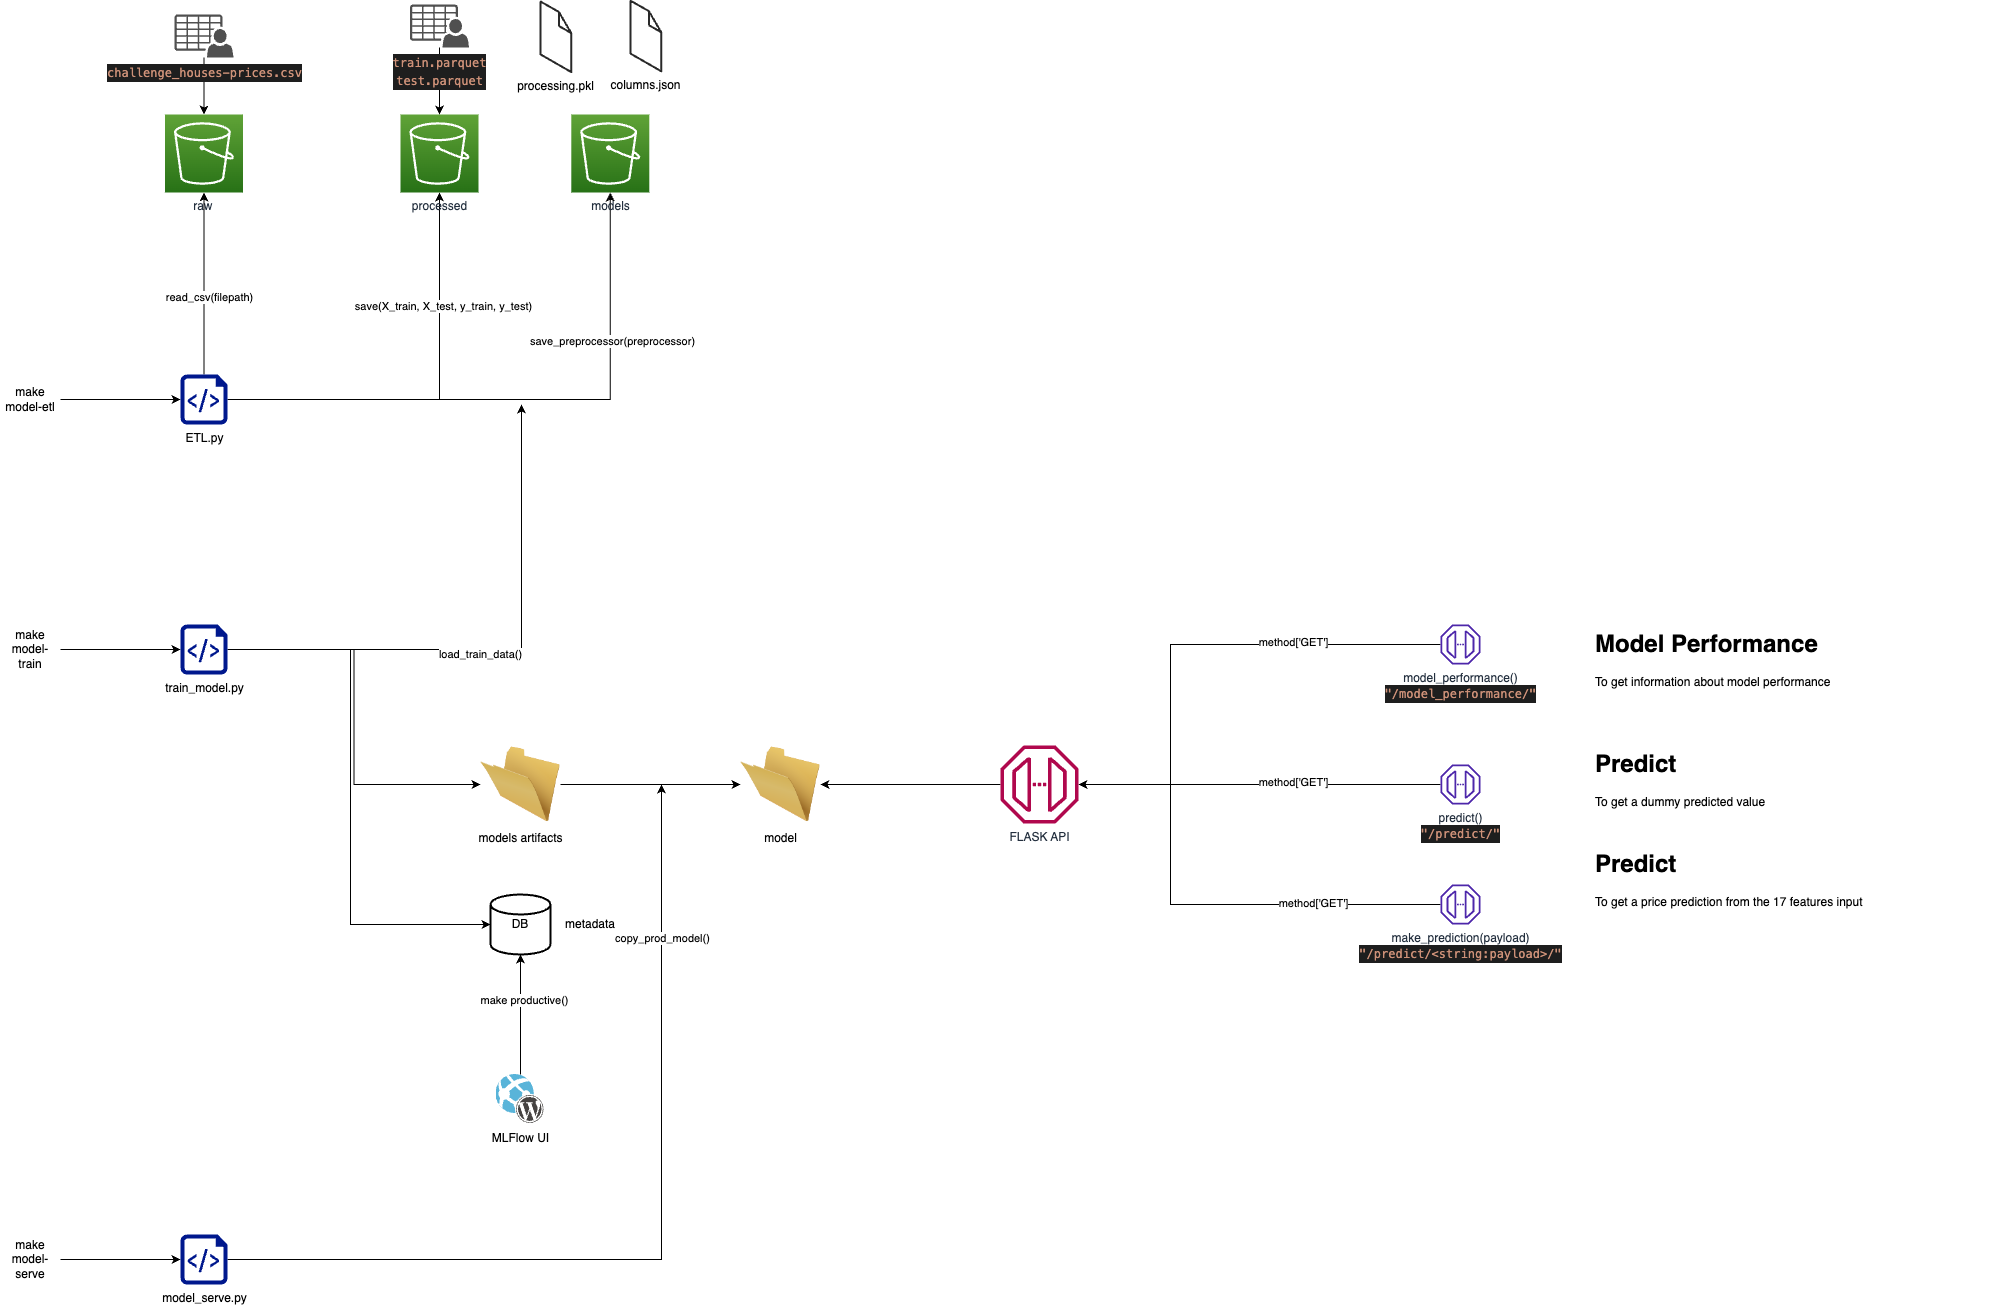
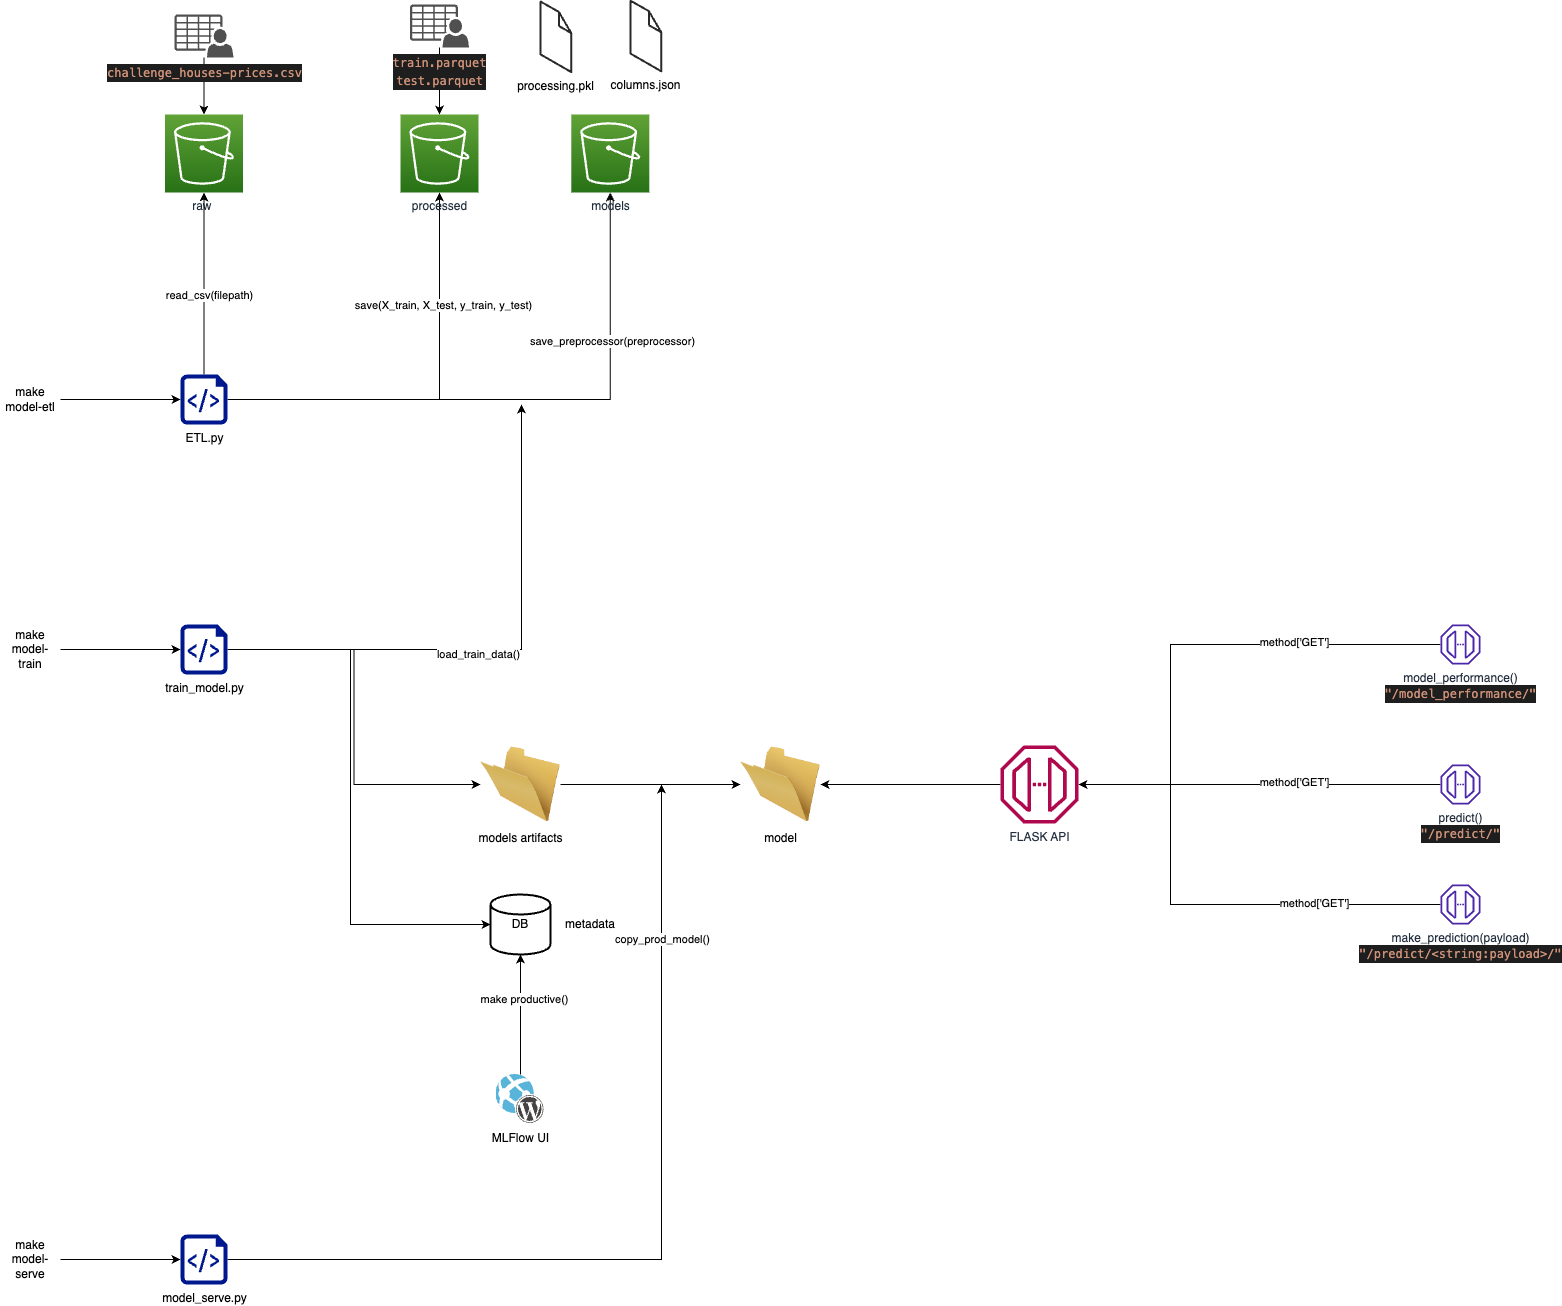
add a better png file

diff --git a/README.md b/README.md
@@ -93,3 +93,7 @@ The ML lifecycle architecture is available in the `src/img` folder.
 - [ML lifecycle architecture](src/img/ml_lifecycle_architecture.png)
 
 
+
+![ML lifecycle architecture](src/img/ml_lifecycle_architecture.png)
+
+
